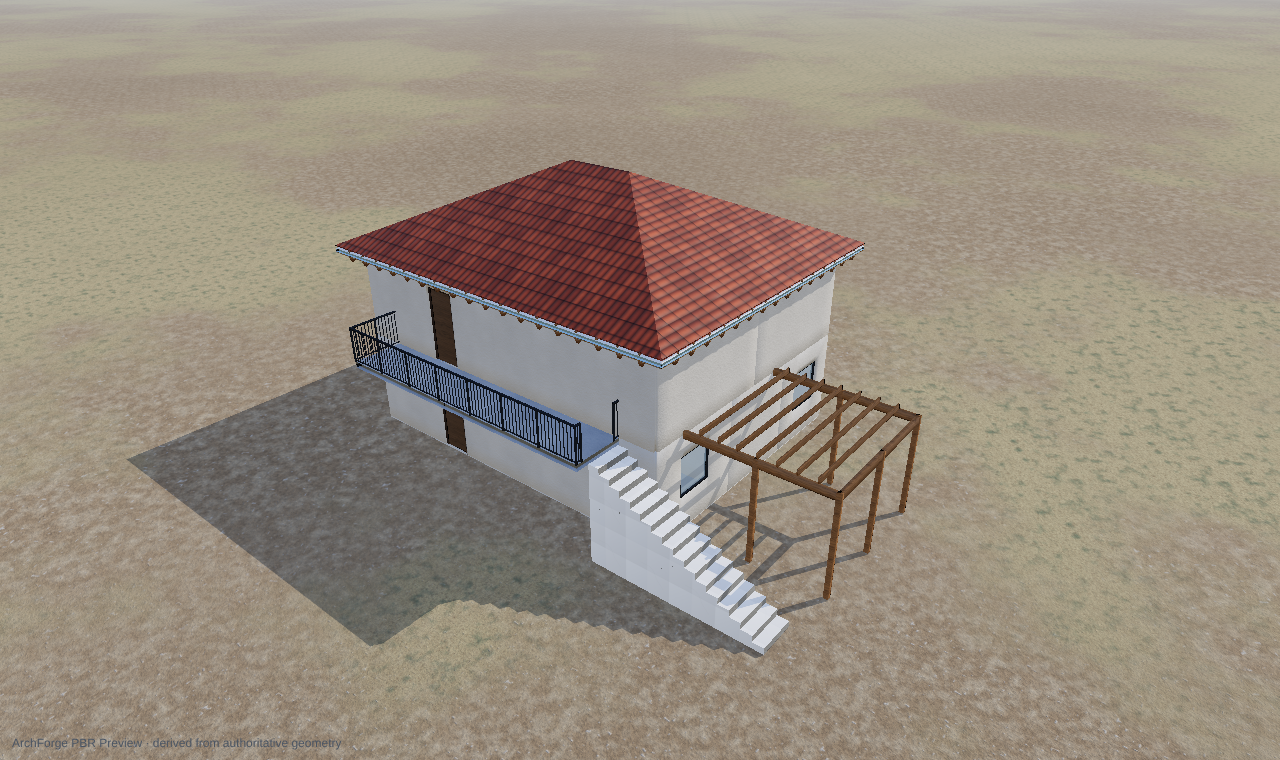
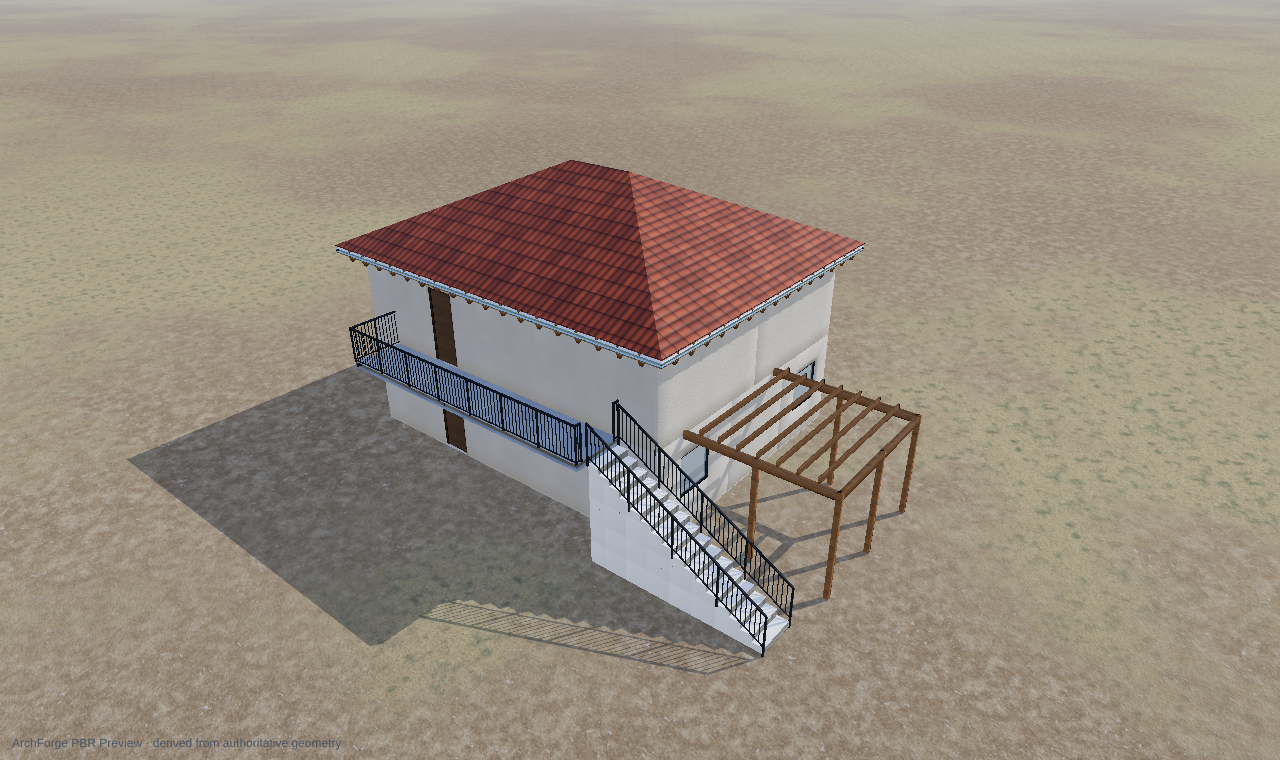
Νέα σκάλα με κάγκελο στις ελεύθερες πλευρές από την αρχή (ίδια αναίρεση)· HANDOFF τέλους 23/10
Claude-Session: https://claude.ai/code/session_0143zdmKi8U2c5oRLoy74noU

Changed region(s): [[0.3438, 0.5447, 0.625, 0.9079]]

diff --git a/archforge/core/interaction.py b/archforge/core/interaction.py
@@ -595,12 +595,14 @@ class StairPlaceTransaction:
         if not self.candidates:
             raise ValueError('stair has no valid preview')
         chosen=self.active_candidate
-        entity=Entity('stair',chosen.to_params(),name=next_name(self.doc,'stair'))
-        # A railing where it arrives (a balcony's) opens the stair's width there — same undo as the stair.
-        from archforge.architecture.railings import stair_arrival_cuts
-        from archforge.core.commands import CompositeCommand
+        entity=Entity('stair',dict(chosen.to_params(),railing='auto'),name=next_name(self.doc,'stair'))
+        # Its railings on the open sides from the start (safety first; Ιδιότητες ▸ Κάγκελο changes it), and a railing
+        # where it arrives (a balcony's) opens the stair's width there — all in the same undo as the stair.
+        from archforge.architecture.railings import stair_arrival_cuts,stair_railing_entities
+        from archforge.core.commands import AddEntities,CompositeCommand
+        own=stair_railing_entities(self.doc,entity,'auto')
         cuts=stair_arrival_cuts(self.doc,entity.params)
-        self.stack.execute(CompositeCommand([AddEntity(entity)]+cuts,label='Σκάλα') if cuts else AddEntity(entity))
+        self.stack.execute(CompositeCommand([AddEntity(entity)]+([AddEntities(own)] if own else [])+cuts,label='Σκάλα'))
         self.doc.select([entity.id])
         return entity.id
 

diff --git a/tests/test_stair_obstacles.py b/tests/test_stair_obstacles.py
@@ -132,7 +132,10 @@ def test_a_stair_arriving_at_the_balcony_opens_its_railing_in_one_undo():
     tx = StairPlaceTransaction(doc, stack, (13.8, -0.75)); tx.update(9.4, -0.75)
     assert tx.preview['fits'] and tx.active_candidate.layout == 'straight'
     sid = tx.commit()
-    rails = [e.params['points'] for e in doc.entities.values() if e.kind == 'railing']
+    rails = [e.params['points'] for e in doc.entities.values() if e.kind == 'railing' and 'stair_side' not in e.params]
+    # The stair itself has its railings on its open sides from the start (same undo).
+    own = [e for e in doc.entities.values() if e.kind == 'railing' and e.parent_id == sid and e.visible]
+    assert doc.get(sid).params['railing'] == 'auto' and own
     assert rails != before                                                 # opened (a closed one) or cut in two
     # Nothing of the railing left across the stair's top (x = 9, its width round y = -0,75).
     w = doc.get(sid).params['width']
@@ -143,3 +146,4 @@ def test_a_stair_arriving_at_the_balcony_opens_its_railing_in_one_undo():
                 assert hi <= -0.75 - w / 2 + 1e-6 or lo >= -0.75 + w / 2 - 1e-6
     stack.undo()
     assert sid not in doc.entities and [e.params['points'] for e in doc.entities.values() if e.kind == 'railing'] == before
+    assert not [e for e in doc.entities.values() if e.kind == 'railing' and 'stair_side' in e.params]

diff --git a/docs/HANDOFF.md b/docs/HANDOFF.md
@@ -1,9 +1,23 @@
-## 23/10 βράδυ — branch `claude/great-cori-7javsh` (πάνω στο `claude/zen-goodall-6nu73o`, PR #138)
+## ΤΕΛΟΣ 23/10 βράδυ — ΔΙΑΒΑΣΕ ΠΡΩΤΑ · branch `claude/great-cori-7javsh` (από develop `ee2f1ae`)
 
-- **(1) Μεζούρα / αυτόματες διαστάσεις — ΕΓΙΝΕ** (WORKLOG «Διαστάσεις: μεζούρα…»): CAD ▸ Διαστάσεις.
-- PR #138: merge μόλις το `core-tests` γίνει πράσινο (ο ιδιοκτήτης το ζήτησε). Μετά PR του branch αυτού → develop.
-- Επόμενα: (2) «Από τα σχέδια του μηχανικού» ζητά ό,τι λείπει (3) Αγγλικά (4) εκτύπωση σε κλίμακα.
-- Τοπικά: `apt-get update && apt-get install libegl1 libgl1 libxkbcommon0 …` πριν από τα τεστ με Qt.
+- **Merged στο develop:** PR #138 (βίλα από PDF) και PR #139 (διαστάσεις: μεζούρα + αυτόματες· Αρχική = δικό της
+  περιβάλλον όπως το Dashboard του Home Designer — διόρθωσε «παλιό αρχείο → με πετάει στην Αρχική»· δεξί κλικ μέσα σε
+  δωμάτιο = μενού δωματίου).
+- **Σε εξέλιξη (branch, χωρίς PR ακόμα):** «πάρε τη θέση του χρήστη» — το διώροφο σπίτι της 14/10 ολόκληρο με τον οδηγό
+  (`scripts/user_drive/house.py`, 149 βήματα ως PDF/3D). Διορθώσεις: σκάλα αποφεύγει πόρτες/ντουλάπια/άλλες σκάλες
+  (και στον όροφο άφιξης), δεν τελειώνει στον αέρα, ανοίγει το κάγκελο μπαλκονιού, έχει κάγκελο από την αρχή· σκάλα
+  υπογείου φαίνεται στο ισόγειο· πέργκολα σε τοίχο κομμένο από χωρίσματα· παρατεταμένο πάτημα μετά τον υπολογισμό·
+  «+ Όροφος» στα ελληνικά. Λεπτομέρειες WORKLOG «Σπίτι-δοκιμή ως χρήστης…». **Επόμενο: PR → develop** (ο ιδιοκτήτης
+  θέλει να βλέπει τα merged).
+- **Αποφάσεις ιδιοκτήτη 23/10:** η σκάλα καθορίζει τον χώρο (λιγότερη χαμένη επιφάνεια), το παράθυρο προσαρμόζεται —
+  όχι εμπόδιο· **σήμα: σταματήσαμε** («είσαι τέλειος στον κώδικα, μείνε σε αυτό») — πρόχειρο διανυσματικό (πολύεδρο +
+  καμάρα + σκάλα) στο scratchpad, όχι στο repo.
+- Επόμενα (σειρά ιδιοκτήτη 23/10): «Από τα σχέδια του μηχανικού» ζητά ό,τι λείπει · Αγγλικά · εκτύπωση σε κλίμακα ·
+  και από το σπίτι: σκάλα σε θέσεις με λιγότερη χαμένη επιφάνεια + πρόταση μετακίνησης παραθύρου, κάγκελο σπιράλ,
+  διαστάσεις έξω από την πέργκολα. Μετά: τα 10 σενάρια του ιδιοκτήτη (`docs/scenarios/STRESS_SUITE_10.pdf`, δεν
+  ξεκίνησαν).
+- Τοπικά: `apt-get update && apt-get install libegl1 libgl1 libxkbcommon0 …` πριν από τα τεστ με Qt· 3D στο cloud:
+  `scripts/look_shot` (βρίσκει μόνο του τον Chromium).
 
 ## ΤΕΛΟΣ CHAT 23/10 (70%) — ΔΙΑΒΑΣΕ ΠΡΩΤΑ · branch `claude/zen-goodall-6nu73o` → PR προς develop (merge ζητήθηκε)
 

diff --git a/docs/WORKLOG.md b/docs/WORKLOG.md
@@ -66,7 +66,10 @@ py run_app.py
     πίσω) → μία (`dimensions._merge_collinear`). Μεζούρα 5,85 = σωστό (τοίχοι εργαλείου 15 cm).
   - **Τέλος: 149 βήματα**, αποθήκευση, PDF 10 σελίδων, 3D (`docs/mockups/spiti_dokimi_3d_2026-10-23.png`,
     `…_isogeio_diastaseis_…png`). `scripts/look_shot/shot.mjs` βρίσκει μόνο του τον Chromium.
-- **Ανοιχτά από το σπίτι:** εξωτερική σκάλα χωρίς κάγκελο (2,85 m, ελεύθερη πλευρά — να μπαίνει αυτόματα)· οι
+  - **Σκάλα χωρίς κάγκελο:** κάθε νέα σκάλα ξεκινά με «Κάγκελο: Αυτόματα (ελεύθερες πλευρές)» — κάγκελα-παιδιά που
+    την ακολουθούν, κρυφά κατά μήκος τοίχου, στην ίδια αναίρεση (ήταν «Κανένα»· η εξωτερική των 2,85 m ανέβαινε χωρίς).
+    Η σπιράλ δεν έχει ακόμα κάγκελο (`stair_railing_lines` δεν την υποστηρίζει).
+- **Ανοιχτά από το σπίτι:** κάγκελο σπιράλ· οι
   εξωτερικές διαστάσεις περνούν κάτω από την πέργκολα· πέργκολα όχι στο μενού ποντικιού· σκάλα: προτίμηση θέσεων με τη
   λιγότερη χαμένη επιφάνεια + πρόταση μετακίνησης παραθύρου (απόφαση ιδιοκτήτη).
 
